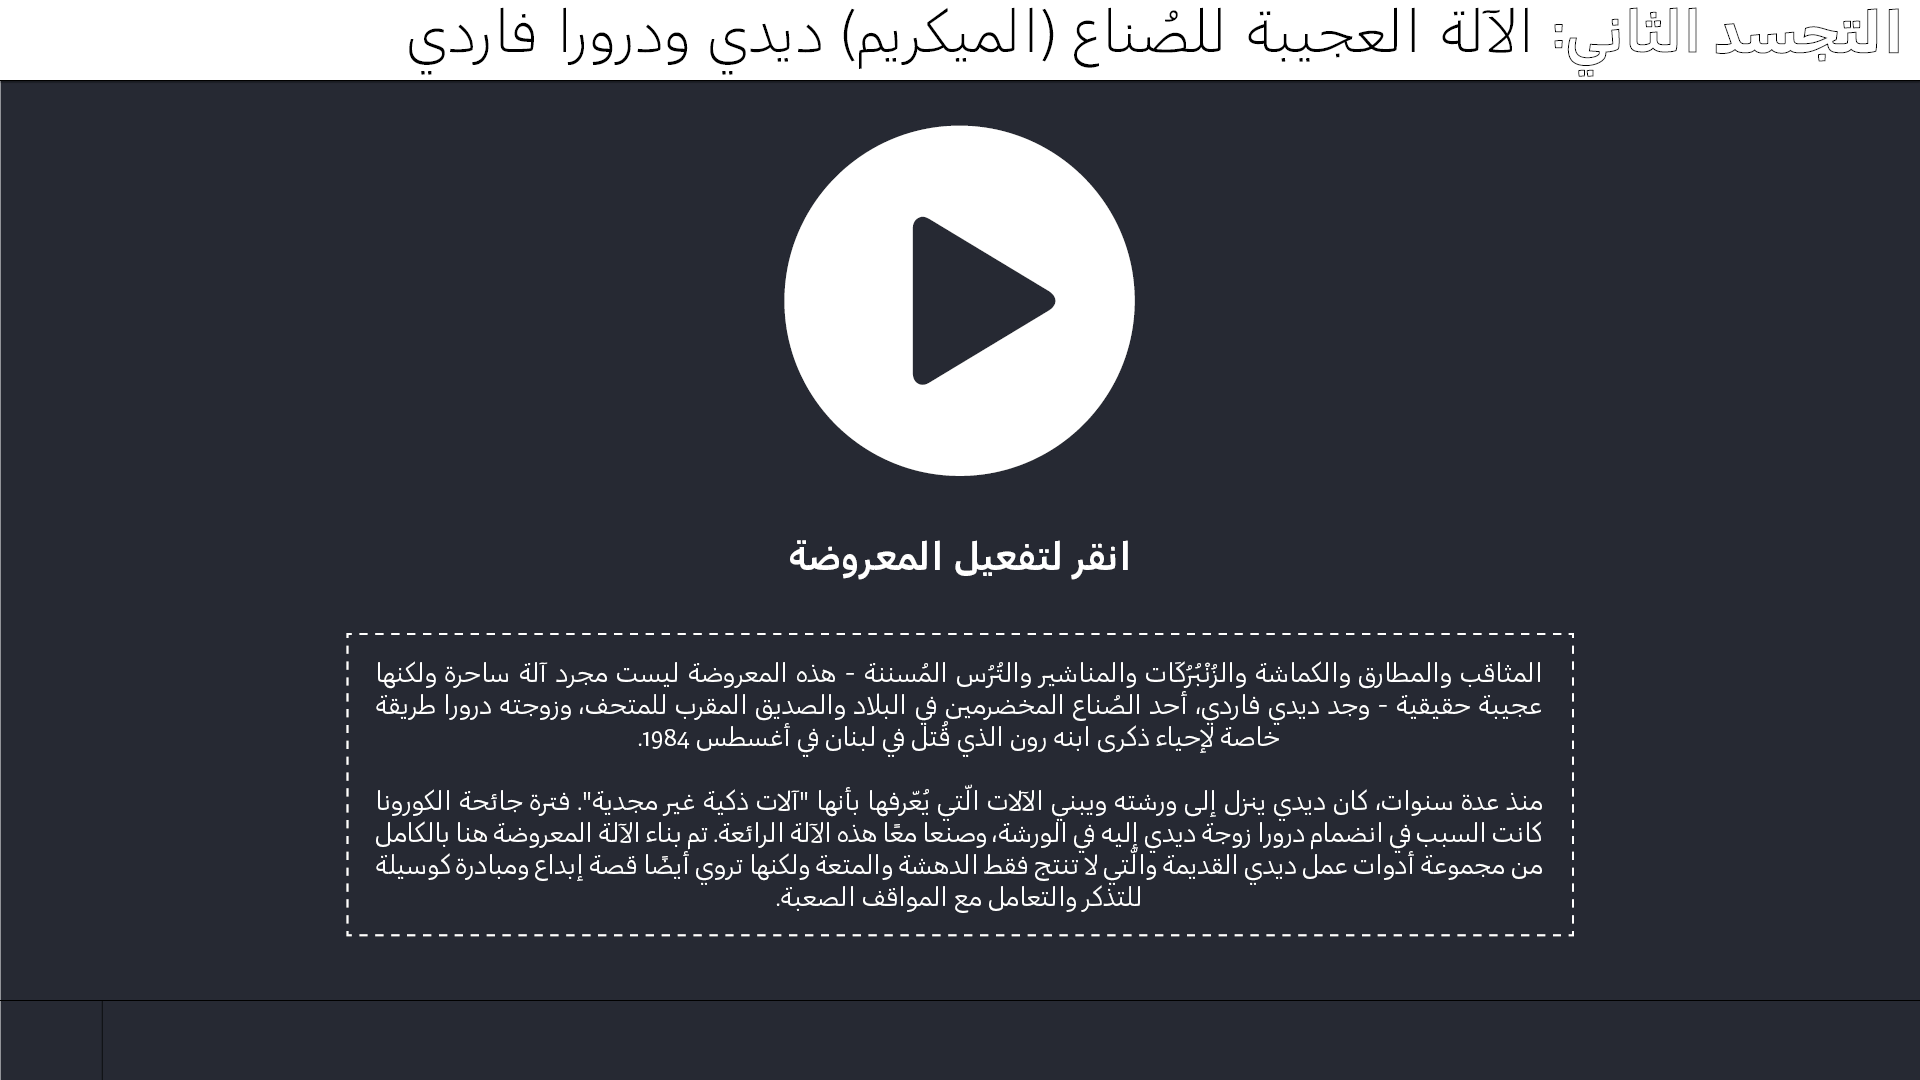
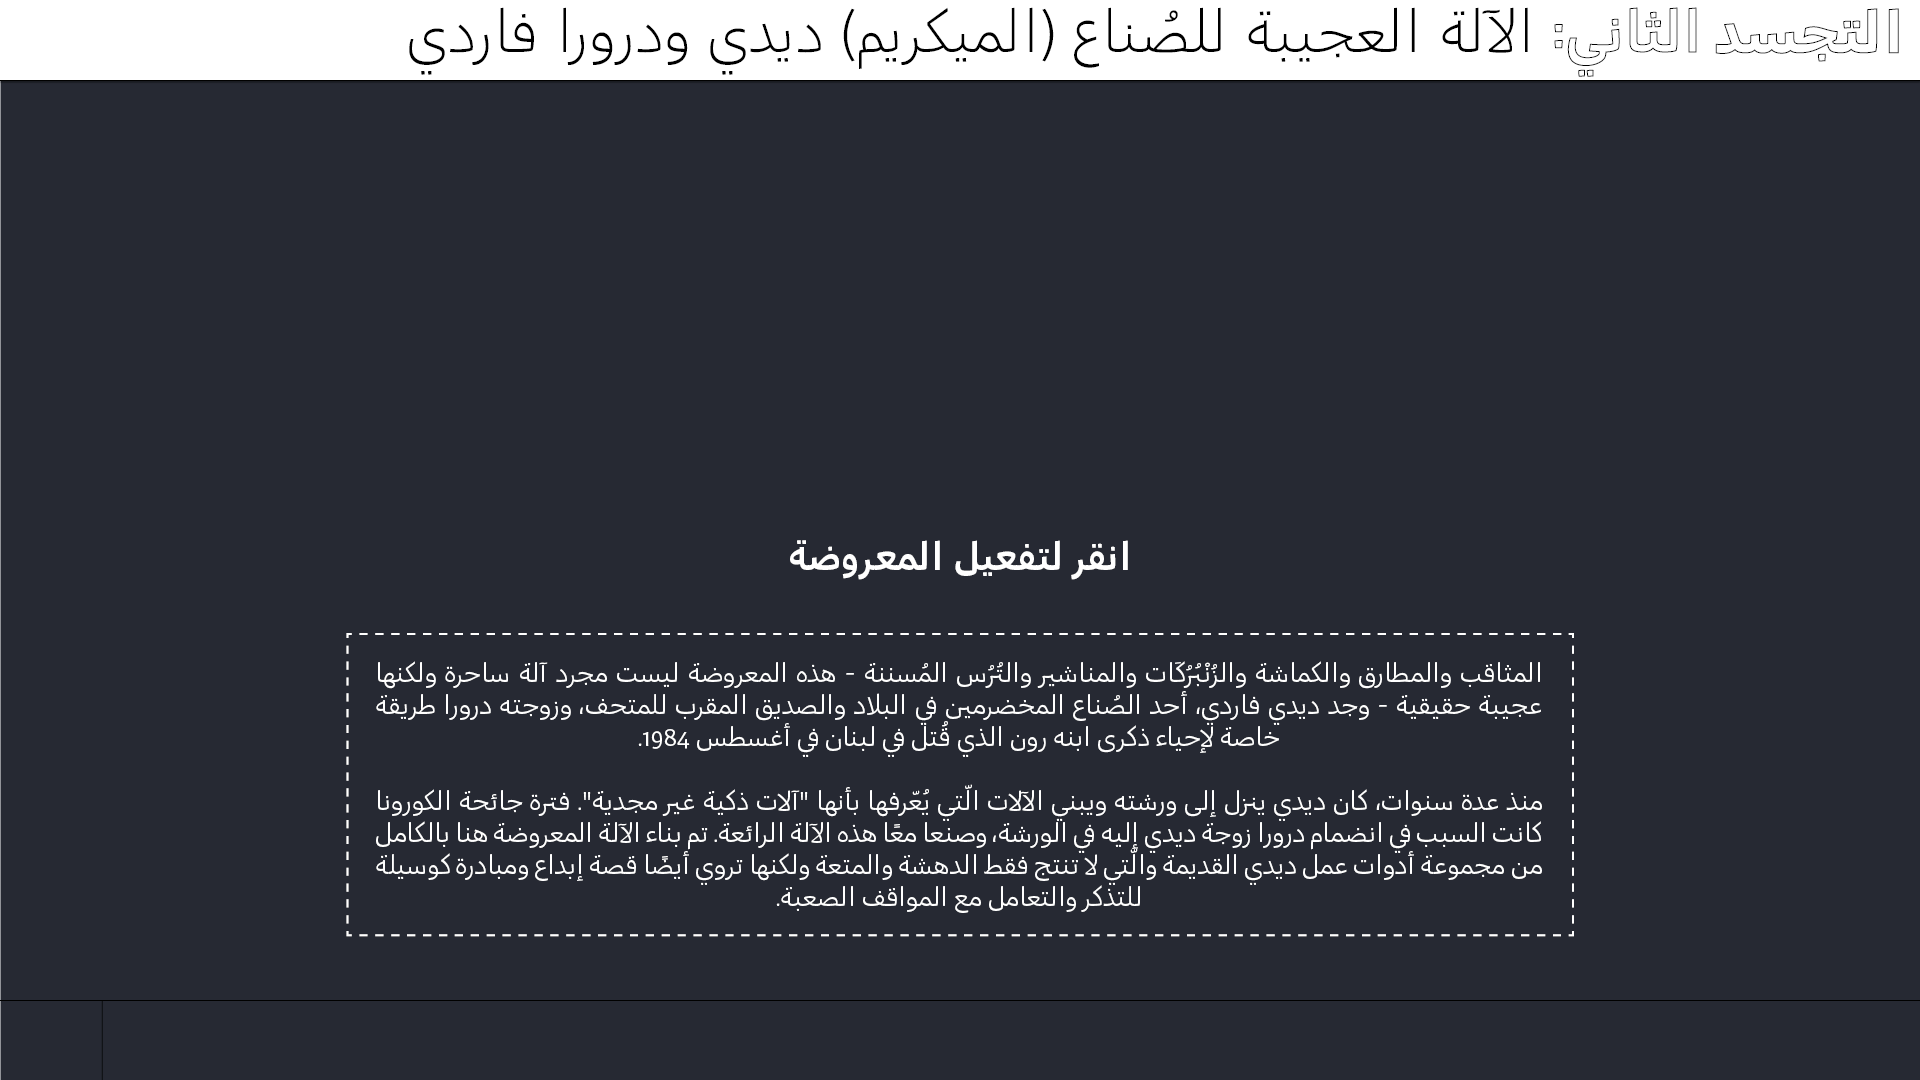
WIP: Initial version

Changed region(s): [[0.4062, 0.0917, 0.5938, 0.4583]]

diff --git a/second-incarnation.py b/second-incarnation.py
@@ -1,5 +1,7 @@
+from functools import partial
+
 import pygame
-from pygame.locals import Rect, MOUSEBUTTONDOWN, MOUSEBUTTONUP, KEYDOWN, K_ESCAPE, Color
+from pygame.locals import Rect, Color
 
 from common.Config import Config
 from common.Button import Button
@@ -24,6 +26,7 @@ class SecondIncarnation:
         self.cursor = None
         self.config = None
         self.buttons = []
+        self.mainButtons = []
         self.blitCursor = True
         self.touchScreen = None
         self.background = None
@@ -47,13 +50,16 @@ class SecondIncarnation:
                 self.config.setTouch(False)
 
         self.background = pygame.image.load('assets/images/' + self.config.getLanguagePrefix() + '/main.png').convert_alpha()
+        self.isMainScreen = True
 
         for button in self.config.getSubscreenButtons():
+            print(button)
             buttonImage = pygame.image.load('assets/images/' + self.config.getLanguagePrefix() + '/' + button['image']).convert_alpha()
             buttonTappedImage = pygame.image.load('assets/images/' + self.config.getLanguagePrefix() + '/' + button['tappedImage']).convert_alpha()
-            self.buttons.append(Button(self.screen,
-                                       Rect(button['x'] - self.BUTTON_WIDTH / 2, button['y'] - self.BUTTON_HEIGHT / 2, self.BUTTON_WIDTH, self.BUTTON_HEIGHT),
-                                       buttonImage, buttonTappedImage, None, None, None, None, self.onButtonClicked))
+            buttonInstance = Button(self.screen, (button['x'], button['y']),
+                                    buttonImage, buttonTappedImage, None, None, None, None, partial(self.onButtonClicked, button));
+            self.buttons.append(buttonInstance)
+            self.mainButtons.append(buttonInstance)
 
 
         # for i in range(len(self.config.getLanguages())):
@@ -72,7 +78,8 @@ class SecondIncarnation:
         self.loop()
 
     def onButtonClicked(self, button):
-        pass
+        self.background = pygame.image.load('assets/images/' + self.config.getLanguagePrefix() + '/' + button['screenImage'])
+        self.isMainScreen = False
 
     def languageClicked(self, index):
         self.config.changeLanguage(index)
@@ -101,8 +108,25 @@ class SecondIncarnation:
     def draw(self, _):
         self.screen.blit(self.background, (0, 0))
 
-        for button in self.buttons:
-            button.draw()
+        if self.isMainScreen:
+            for button in self.mainButtons:
+                button.draw()
+        else:
+            pass
+
+    def handleEvents(self):
+        for event in pygame.event.get():
+            if event.type == pygame.MOUSEBUTTONDOWN:
+                if not self.config.isTouch():
+                    self.onMouseDown(event.pos)
+            elif event.type == pygame.MOUSEBUTTONUP:
+                if not self.config.isTouch():
+                    self.onMouseUp(event.pos)
+            elif event.type == pygame.KEYDOWN:
+                if event.key == pygame.K_ESCAPE:
+                    return False
+
+        return True
 
     def loop(self):
         try:
@@ -112,16 +136,7 @@ class SecondIncarnation:
             font = pygame.font.Font(None, 30)
 
             while isGameRunning:
-                for event in pygame.event.get():
-                    if event.type == MOUSEBUTTONDOWN:
-                        if not self.config.isTouch():
-                            self.onMouseDown(event.pos)
-                    elif event.type == MOUSEBUTTONUP:
-                        if not self.config.isTouch():
-                            self.onMouseUp(event.pos)
-                    elif event.type == KEYDOWN:
-                        if event.key == K_ESCAPE:
-                            isGameRunning = False
+                isGameRunning = self.handleEvents()
 
                 if self.config.isTouch():
                     event = self.touchScreen.readUpDownEvent()

diff --git a/common/Button.py b/common/Button.py
@@ -4,9 +4,9 @@ from common.Utilities import Utilities
 
 
 class Button:
-    def __init__(self, screen, rect, image, tappedImage, text, color, selectedColor, font, onClickCallback, sensitivityFactor=1.0):
+    def __init__(self, screen, center, image, tappedImage, text, color, selectedColor, font, onClickCallback, sensitivityFactor=1.0):
         self.screen = screen
-        self.rect = rect
+        self.rect = Rect(center[0] - image.get_width() // 2, center[1] - image.get_height() // 2, image.get_width(), image.get_height())
         self.image = image
         self.tappedImage = tappedImage
         self.color = color
@@ -35,7 +35,10 @@ class Button:
 
     def draw(self):
         if self.visible:
-            self.screen.blit(self.tappedImage if self.isMouseDownOnButton else self.image, (self.rect.left, self.rect.top))
+            if self.isMouseDownOnButton:
+                self.screen.blit(self.tappedImage, (self.rect.center[0] - self.tappedImage.get_width() // 2, self.rect.center[1] - self.tappedImage.get_height() // 2))
+            else:
+                self.screen.blit(self.image, (self.rect.left, self.rect.top))
 
             if self.textBox is not None:
                 Utilities.drawTextOnCenter(self.screen, self.selectedTextBox if self.isMouseDownOnButton else self.textBox, self.rect.center)
